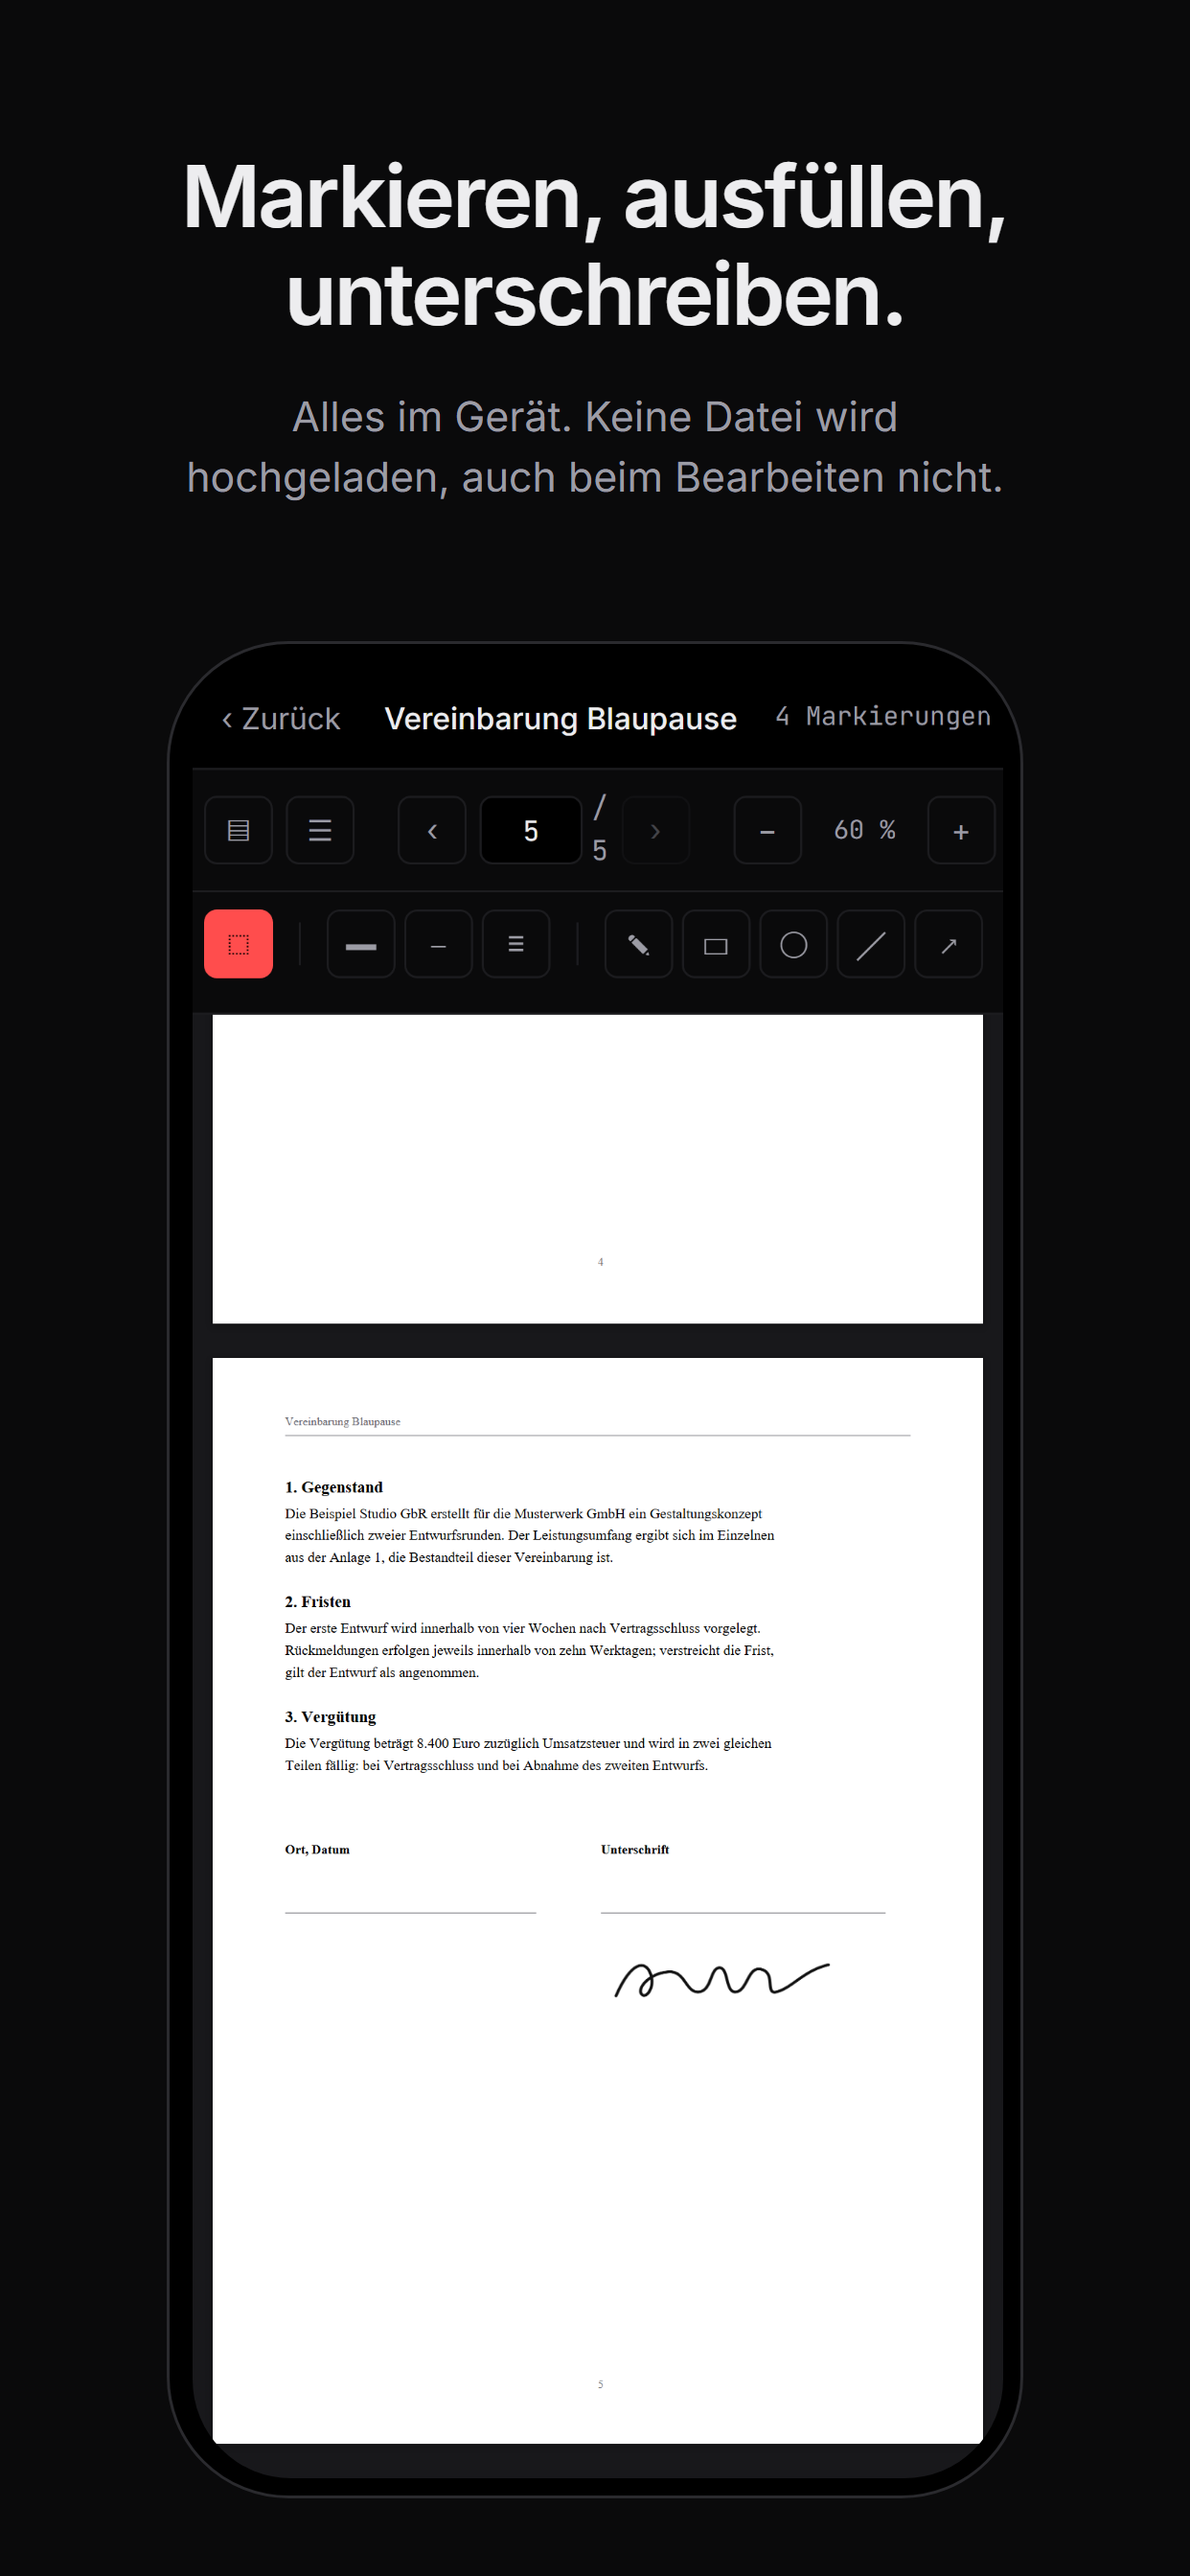
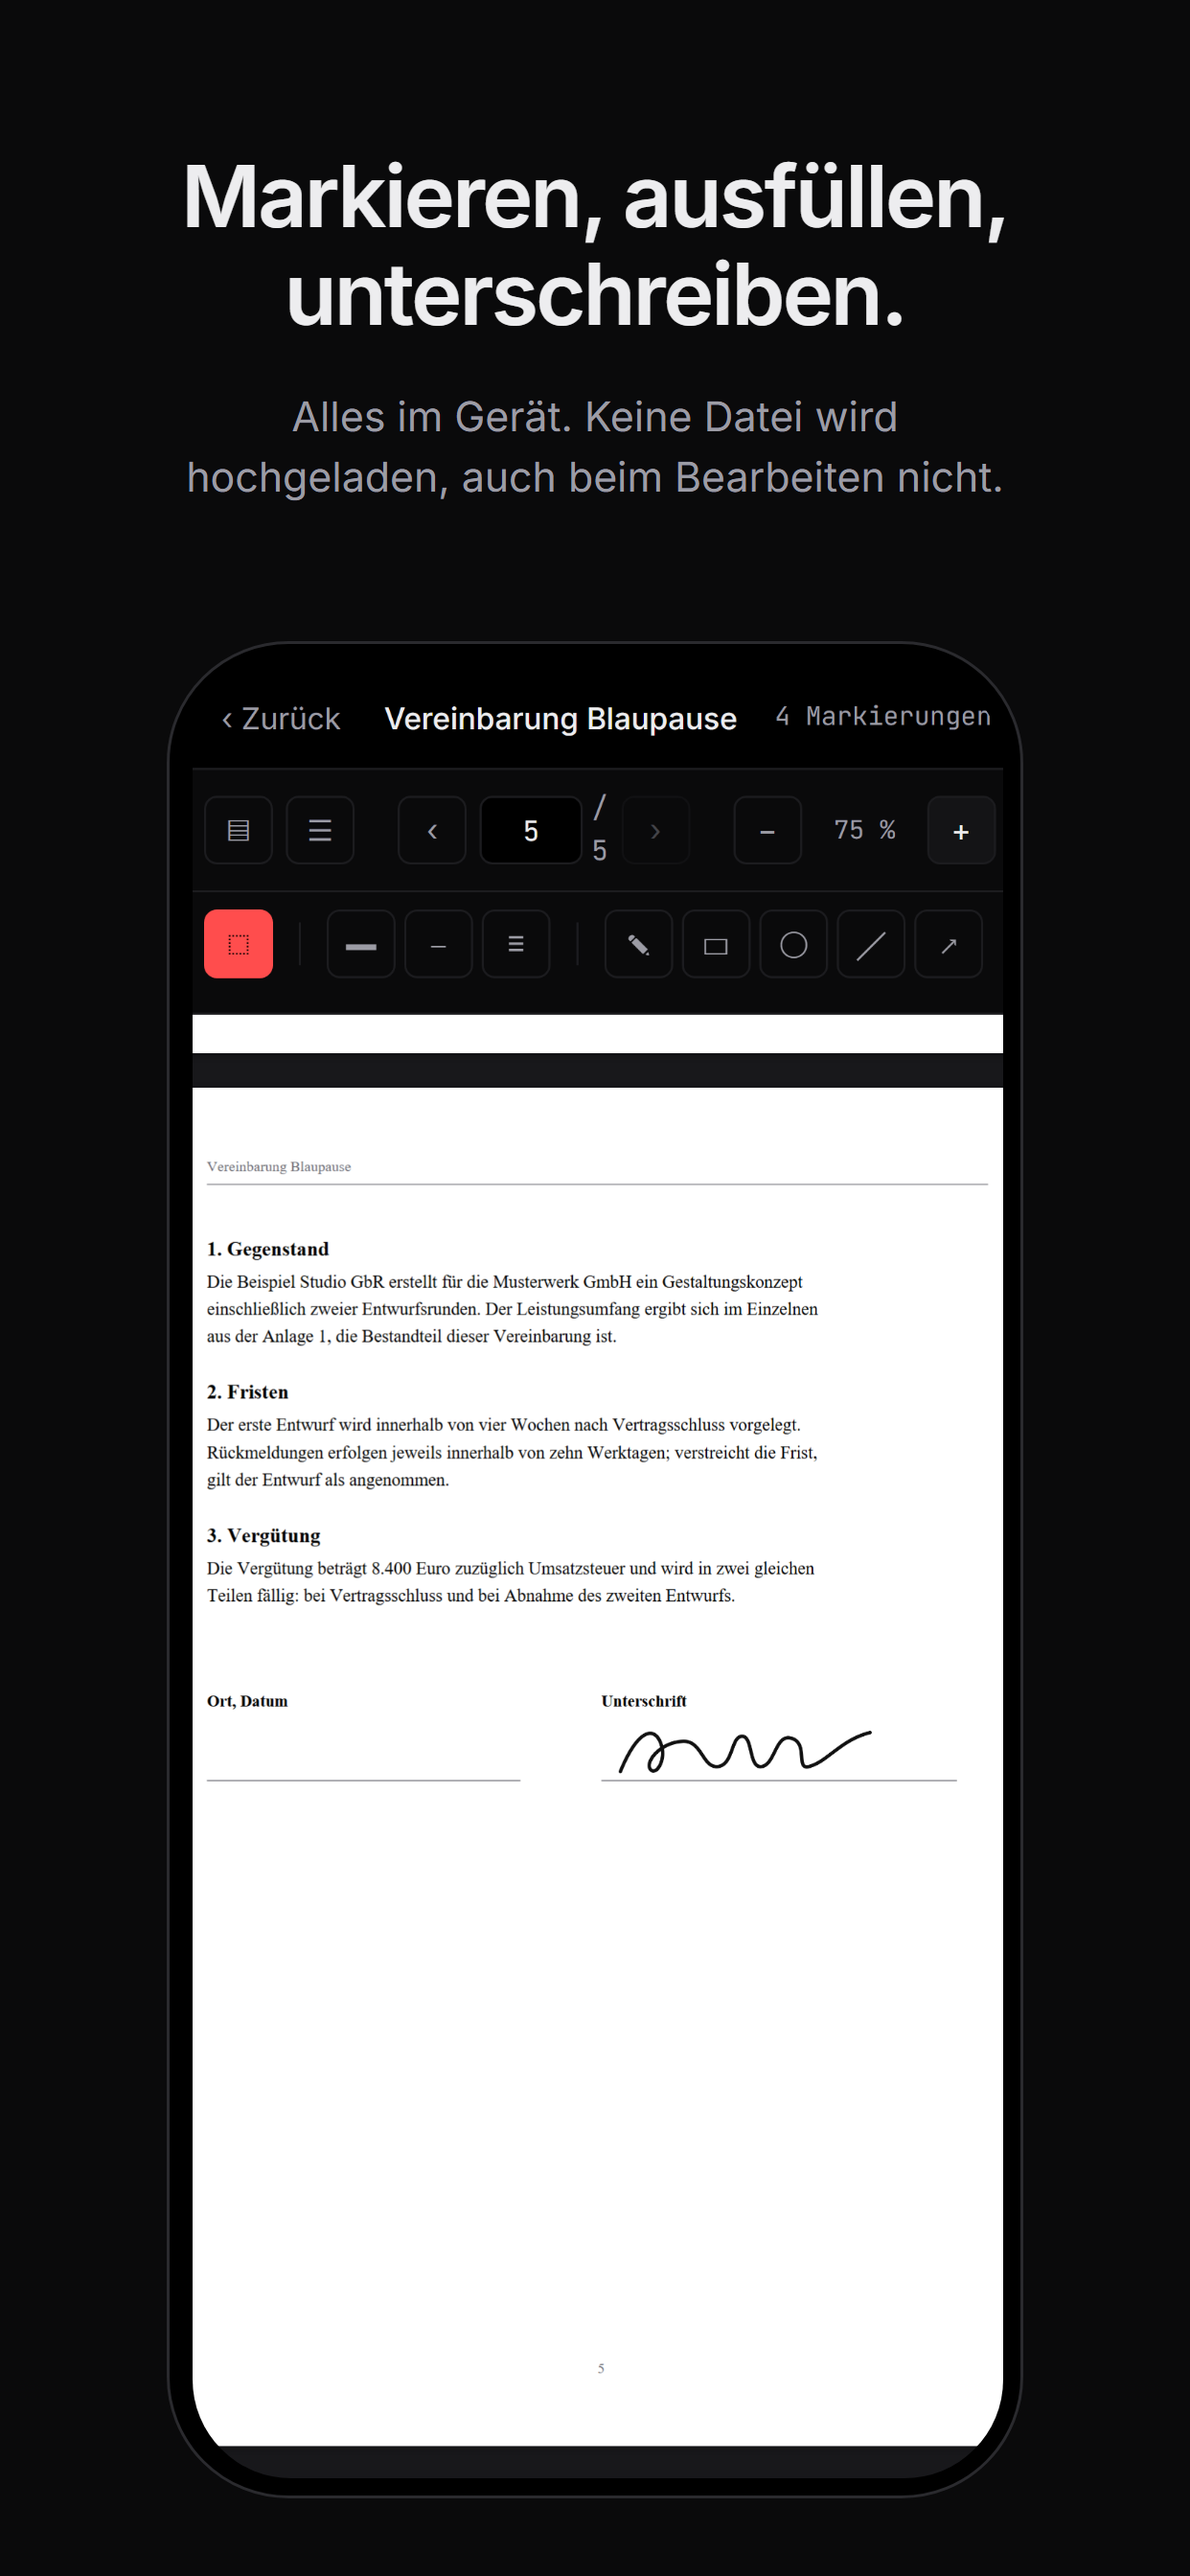
Die Unterschrift sitzt auf der Linie, nicht darunter
Das Bild, das im Laden "unterschreiben" verspricht, zeigte die Unterschrift zwei
Zentimeter unter der Signaturlinie schweben. Die Marke endete bei 388 pt, die
Linie liegt bei 411,89 pt.

Dazu drei Sachen, die derselbe Blick aufgedeckt hat:

- Der Dateiname entstand aus der Position im Feld, die Kennung trug aber eine
  eigene Nummer. Nach dem Einschieben von Original und Werkzeugen hiess das Bild
  "06-stats" auf der Platte "08-stats.png" -- und sechs Dateien unter dem alten
  Namen blieben liegen, weil nichts einen Namen neu erzeugt, den es nicht mehr
  gibt. Play nimmt hoechstens acht Bilder; es lagen neun da. Kennung und
  Dateiname sind jetzt dasselbe, und eine Zusicherung haelt sie zusammen.
- Der Fehlschlag beim Aufnehmen wurde stumm verschluckt: aus einer kaputten
  Interaktion wurde eine Attrappe im Laden, und der Lauf meldete weiter "ok".
- Die letzte Seite ist kuerzer als der sichtbare Bereich, also blieb der leere
  Fuss der vierten im oberen Fuenftel stehen. Eine Zoomstufe naeher, dann bis
  ans Ende -- und gemessen, dass die Unterschrift im Bild ist.

Changed region(s): [[0.153, 0.375, 0.8567, 0.9375], [0.5201, 0.75, 0.5507, 0.7812]]

diff --git a/packages/assets/src/store-screenshots.ts b/packages/assets/src/store-screenshots.ts
@@ -299,7 +299,7 @@ const AFTER_LOAD: Record<string, (page: Page) => Promise<void>> = {
     await page.getByRole('button', { name: 'Einstellungen öffnen' }).click();
     await page.waitForSelector('[data-lexipulse-screen="04-settings"]', { timeout: 5_000 });
   },
-  '07-original': async (page) => {
+  '06-original': async (page) => {
     // The first page has to have finished drawing, or the sheet is photographed blank.
     await page.waitForFunction(
       () => {
@@ -310,7 +310,7 @@ const AFTER_LOAD: Record<string, (page: Page) => Promise<void>> = {
       { timeout: 20_000 },
     );
   },
-  '08-tools': async (page) => {
+  '07-tools': async (page) => {
     await page.waitForFunction(
       () => {
         const canvas = document.querySelector('[data-pdf-page="5"] canvas');
@@ -320,7 +320,7 @@ const AFTER_LOAD: Record<string, (page: Page) => Promise<void>> = {
       { timeout: 20_000 },
     );
     await page.getByRole('button', { name: 'Bearbeiten', exact: true }).click();
-    await page.waitForSelector('[data-lexipulse-screen="08-tools"]', { timeout: 5_000 });
+    await page.waitForSelector('[data-lexipulse-screen="07-tools"]', { timeout: 5_000 });
 
     // The tool rows change the height above the page, and clicking scrolled the toolbar
     // sideways. Both leave the shot showing the wrong thing, so land on the page again
@@ -333,7 +333,59 @@ const AFTER_LOAD: Record<string, (page: Page) => Promise<void>> = {
       });
       (document.activeElement as HTMLElement | null)?.blur();
     });
+
+    /*
+     * And land on the page itself, measured rather than assumed.
+     *
+     * Typing the page number alone left the shot showing the blank tail of page 4 across
+     * the upper half of the frame, with the signature pushed to the very bottom edge. The
+     * check below fails the capture instead of shipping that.
+     */
+    await page.waitForTimeout(400);
+
+    /*
+     * One step closer, then all the way down.
+     *
+     * At the width-fitted 60 % the last page is shorter than the visible area, so the
+     * scroller runs out with the blank foot of page 4 filling the top fifth of the frame —
+     * a screenshot captioned "unterschreiben" that spends a fifth of itself on an empty
+     * page. One zoom step makes page 5 taller than the view, and the end of the scroll is
+     * then the signature.
+     */
+    await page.getByRole('button', { name: 'Vergrößern' }).click();
+    await page.waitForTimeout(400);
+    await page.evaluate(() => {
+      const scroller = document.querySelector('[aria-label="Originalseiten"]');
+      if (scroller) scroller.scrollTop = scroller.scrollHeight;
+    });
+    await page.waitForFunction(
+      () => {
+        const canvas = document.querySelector('[data-pdf-page="5"] canvas');
+        return canvas instanceof HTMLCanvasElement && canvas.style.opacity === '1';
+      },
+      undefined,
+      { timeout: 20_000 },
+    );
     await page.waitForTimeout(600);
+
+    /*
+     * And the signature has to be in the picture, measured rather than trusted.
+     *
+     * `buildSeedPdf` puts the signature line 411.89 pt up a 841.89 pt page and the mark
+     * spans 402–460 pt, so the band sits between 45 % and 53 % of the way down. Both edges
+     * of it have to be inside the visible box.
+     */
+    const band = await page.evaluate(() => {
+      const element = document.querySelector('[data-pdf-page="5"]');
+      const scroller = document.querySelector('[aria-label="Originalseiten"]');
+      if (!element || !scroller) return null;
+      const a = element.getBoundingClientRect();
+      const b = scroller.getBoundingClientRect();
+      return { top: a.top + a.height * 0.45 - b.top, bottom: b.bottom - (a.top + a.height * 0.53) };
+    });
+    if (!band || band.top < 0 || band.bottom < 0) {
+      throw new Error(`07-tools: the signature is outside the frame (${JSON.stringify(band)})`);
+    }
   },
 };
 
@@ -369,8 +421,14 @@ async function probeDevServer(browser: Browser): Promise<Map<string, string>> {
         FORCE_LIVE || (await page.locator(`[data-lexipulse-screen="${screen.id}"]`).count()) > 0;
       await context.close();
       if (marked) available.set(screen.id, `${url}#${screen.id}`);
-    } catch {
-      // A route that throws while loading is not a route we ship a screenshot of.
+      else console.log(`  --  ${screen.id}: the route did not identify itself`);
+    } catch (error) {
+      /*
+       * A route that throws while loading is not a route we ship a screenshot of — but say
+       * so out loud. Swallowed silently, a broken interaction turns into a mock-up in the
+       * store listing and the run still reports "ok" on every line.
+       */
+      console.log(`  --  ${screen.id}: ${(error as Error).message.split(/\r?\n/)[0]}`);
     }
   }
   return available;
@@ -456,7 +514,20 @@ async function main(): Promise<void> {
           await page.setContent(html, { waitUntil: 'load' });
           await page.evaluate(() => document.fonts.ready);
 
-          const name = `${String(index + 1).padStart(2, '0')}-${screen.id.replace(/^\d+-/, '')}.png`;
+          /*
+           * The id verbatim, not the position.
+           *
+           * Numbering by position while the id carried a number of its own meant `06-stats`
+           * was written as `08-stats.png`, and the six files under the old number stayed
+           * behind for good — nothing regenerates a name no longer produced, so a stale
+           * screenshot sat in the upload folder. The check below keeps the two aligned.
+           */
+          if (screen.id !== `${String(index + 1).padStart(2, '0')}-${screen.id.replace(/^\d+-/, '')}`) {
+            throw new Error(
+              `screen "${screen.id}" sits at position ${index + 1}; renumber it or move it`,
+            );
+          }
+          const name = `${screen.id}.png`;
           const file = join(dir, name);
           const buffer = await page.screenshot({ type: 'png' });
           writeFileSync(file, buffer);

diff --git a/packages/assets/src/templates/screens.ts b/packages/assets/src/templates/screens.ts
@@ -576,7 +576,7 @@ export const SCREENS: readonly ScreenDef[] = [
     body: library,
   },
   {
-    id: '07-original',
+    id: '06-original',
     headline: t('Die PDF, wie sie gesetzt wurde.', 'The PDF exactly as it was laid out.'),
     sub: t(
       'Abbildungen, Tabellen, Formulare. Mit Zoom, Miniaturen und Volltextsuche.',
@@ -587,7 +587,7 @@ export const SCREENS: readonly ScreenDef[] = [
     body: original,
   },
   {
-    id: '08-tools',
+    id: '07-tools',
     headline: t('Markieren, ausfüllen, unterschreiben.', 'Annotate, fill in, sign.'),
     sub: t(
       'Alles im Gerät. Keine Datei wird hochgeladen, auch beim Bearbeiten nicht.',
@@ -598,7 +598,7 @@ export const SCREENS: readonly ScreenDef[] = [
     body: originalTools,
   },
   {
-    id: '06-stats',
+    id: '08-stats',
     headline: t('Sieh, wie viel du wirklich liest.', 'See how much you actually read.'),
     sub: t(
       'Wörter, Tempo und Lesezeit, nur für dich, nur auf diesem Gerät.',

diff --git a/packages/assets/src/seed.ts b/packages/assets/src/seed.ts
@@ -372,7 +372,17 @@ export function pdfSeedEntries(now: number): [string, string][] {
     ],
     [
       `lexi:mark:${id}:${id}-sig`,
-      JSON.stringify(mark('sig', 'signature', [304, 330, 484, 388], {
+      /*
+       * On the line, not under it.
+       *
+       * The signature line on page 5 sits at y = 411.89 pt (`buildSeedPdf` draws it 46 pt
+       * below the "Unterschrift" label). The drawn stroke fills the middle of its picture
+       * and stops about a fifth short of the bottom edge, so the box has to reach past the
+       * line for the ink to rest on it. The earlier box ended at 388 and the signature
+       * floated a good two centimetres below the line — in a screenshot captioned
+       * "unterschreiben".
+       */
+      JSON.stringify(mark('sig', 'signature', [304, 402, 474, 460], {
         imageId: SEED_STAMP_ID,
       })),
     ],

diff --git a/apps/web/src/components/reader/stats-view.tsx b/apps/web/src/components/reader/stats-view.tsx
@@ -85,7 +85,7 @@ export function StatsView() {
   return (
     <>
       <ReaderNav />
-      <main id="inhalt" data-lexipulse-screen="06-stats" className="mx-auto max-w-4xl px-4 py-8 sm:px-5 sm:py-12">
+      <main id="inhalt" data-lexipulse-screen="08-stats" className="mx-auto max-w-4xl px-4 py-8 sm:px-5 sm:py-12">
         <h1 className="text-[31px] font-semibold tracking-[-0.03em]">Statistik</h1>
         <p className="mt-2 max-w-[62ch] text-[15px] leading-relaxed text-[var(--lx-text-muted)]">
           Berechnet aus den Sitzungen auf diesem Gerät. Nichts davon wird übertragen oder

diff --git a/packages/pdf/src/surface.tsx b/packages/pdf/src/surface.tsx
@@ -376,7 +376,7 @@ export function PdfSurface({
      */
     <div
       className="flex h-[100dvh] flex-col"
-      data-lexipulse-screen={editing ? '08-tools' : '07-original'}
+      data-lexipulse-screen={editing ? '07-tools' : '06-original'}
     >
       <header className="flex h-12 shrink-0 items-center gap-3 border-b border-[var(--lx-border)] bg-[var(--lx-bg)] px-3">
         {onBack && (

diff --git a/USER-TODO.md b/USER-TODO.md
@@ -52,14 +52,29 @@ Sobald 1.0 freigegeben ist, läuft es in dieser Reihenfolge:
 Ein iOS-Bau davor müsste sich wieder ein fremdes Konto leihen, wie bei Build 9.
 Wenn 1.0 vorher durchgeht und Sie nicht warten wollen, sagen Sie Bescheid.
 
-## Was noch nicht am Gerät gelaufen ist
+## Am Gerät gelaufen — und drei Fehler gefunden, die nur dort auftreten
 
-Die Oberfläche in der WebView ist als gebautes Bündel im Browser geprüft: Seiten
-gerendert, gesucht, markiert, gespeichert, die ausgelieferte Datei zurückgelesen.
-Das Protokoll zwischen App und WebView hat eigene Tests. Was fehlt, ist ein Lauf
-auf einem echten Telefon — die Emulatoren auf diesem Rechner waren von anderen
-Läufen belegt und haben nicht mehr geantwortet. Das gehört vor die Einreichung
-von 1.1, zusammen mit dem ohnehin nötigen Bau.
+Der Lauf auf dem Emulator hat stattgefunden, in einer gebauten App und nicht im
+Entwicklungsserver: PDF importiert, Original geöffnet, Seite gerendert,
+gezeichnet, gespeichert, und die fertige Datei kam im Android-Teilen-Blatt an.
+
+Drei Fehler waren im Browser nicht zu sehen und wären mit 1.1 ausgeliefert
+worden:
+
+- Die Werkzeugleisten brachen auf **drei Zeilen** um. Die WebView meldet rund
+  900 CSS-Pixel Breite, also greift der Umbruchpunkt für große Bildschirme —
+  auf einem Telefon. Jetzt immer eine Zeile, die scrollt.
+- Das Zeichen für „Speichern" (`⭳`) hat in der Android-WebView **keine Glyphe**
+  und stand als leerer Kasten da. Ersetzt durch `↑` und `↓`.
+- Der Speichern-Dialog sagte „als neue Datei **herunterladen**". Auf einem
+  Telefon lädt nichts herunter, dort öffnet das Teilen-Blatt. Der Text kommt
+  jetzt von der Plattform, nicht aus dem Dialog.
+
+Belege liegen als Bildschirmfotos in `.verify/` (`dev-08` vorher, `dev-10`
+nachher, `dev-15` das Teilen-Blatt mit `handbuch-bearbeitet.pdf`).
+
+Ungeprüft bleibt der **iOS**-Pfad: ohne Mac lässt sich das hier nicht am Gerät
+zeigen. Die WebView ist dort dieselbe Bibliothek, der Teilen-Weg ein anderer.
 
 ---
 
